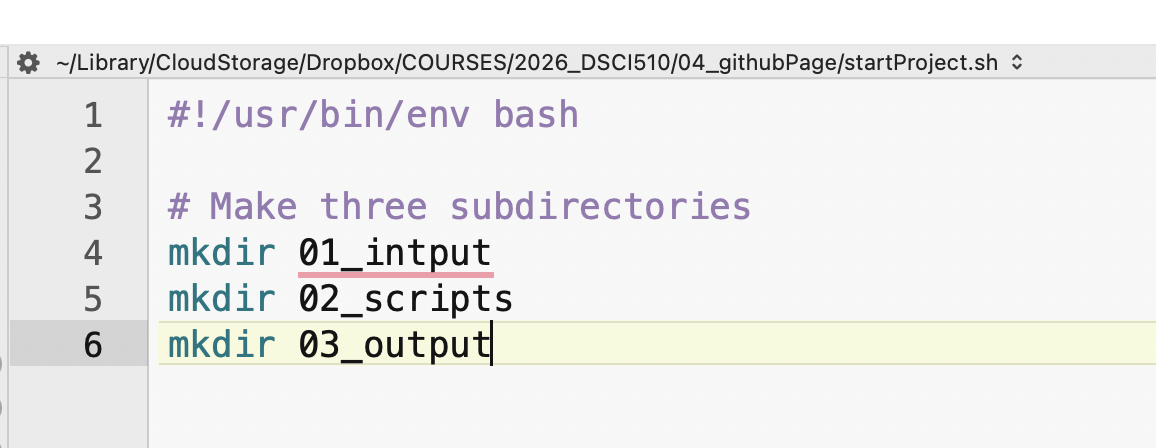
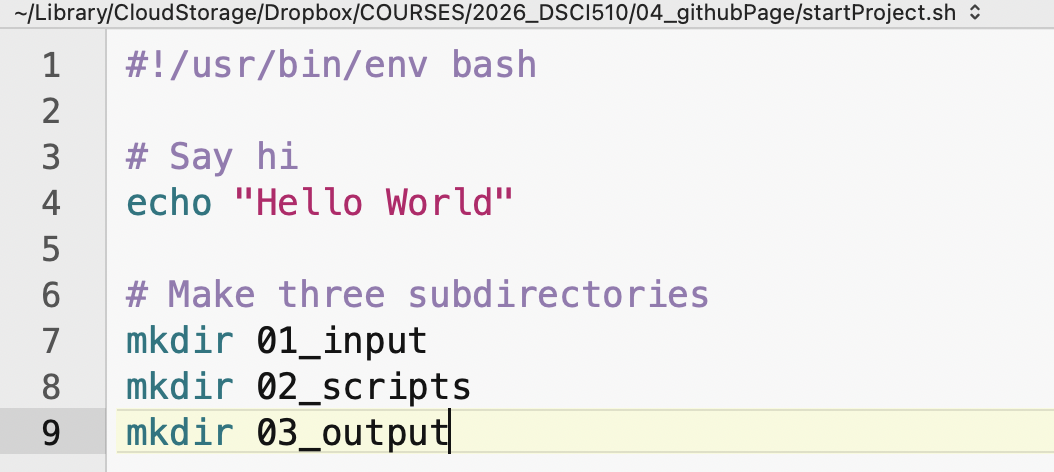
Add week 3

diff --git a/01_modules/Week3/3-1_Scripting1.md b/01_modules/Week3/3-1_Scripting1.md
@@ -62,14 +62,15 @@ I can write these same commands into a script called `startProject.sh`. It looks
 
 ```
 #!/usr/bin/env bash
+
+# Say hi
+echo "Hello World"
  
 # Make three subdirectories
 mkdir 01_input
 mkdir 02_scripts
 mkdir 03_output
  
-# Start a readme file beginning with today's date and time:
-touch README.txt
 ```
 
 Let's take a look at each part of this script …
@@ -92,9 +93,12 @@ OK, so how do we actually write these scripts? I find it useful to use a **text 
 
 **!!! THE CHALLENGE:** the major challenge is syncing up where you are in the terminal with where your script of interest is located.
 
-**!!! PC PITFALL** Are you working on Notepad++ on a PC and seeing weird stuff at the end of each line like `\r` or `\r\n`? If so, you'll need to set your “end of line conversion". To do this, go into Notepad++ **Settings –> Preferences** –> Navigate to **End of line conversion** and select unix/mac. OR, go to **Edit –> EOL Conversion** and select Windows/Linux/Mac.
+>[!TIP]
+> Are you working on Notepad++ on a PC and seeing weird stuff at the end of each line like `\r` or `\r\n`? If so, you'll need to set your “end of line conversion". To do this, go into Notepad++ **Settings –> Preferences** –> Navigate to **End of line conversion** and select unix/mac. OR, go to **Edit –> EOL Conversion** and select Windows/Linux/Mac.
 
-### The nuts and bolts of executing
+----
+
+## The nuts and bolts of executing
 
 To execute a bash script, we simply navigate on the terminal to the place where our script is located. Then, I use `ls` to ensure I can **see** the script located in my working directory. Then, I execute it using the command **bash**, like so…
 
